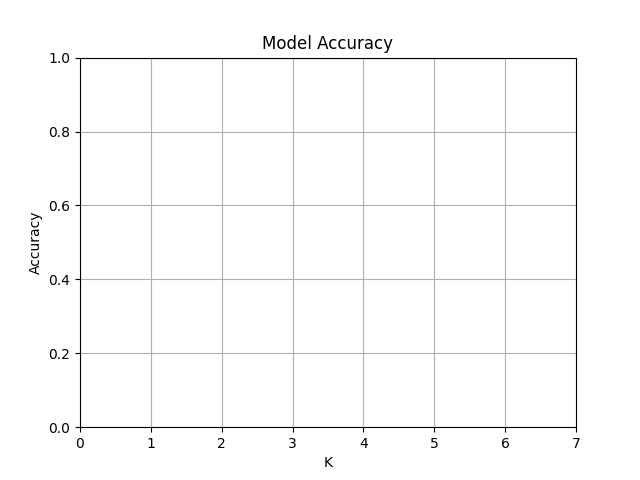
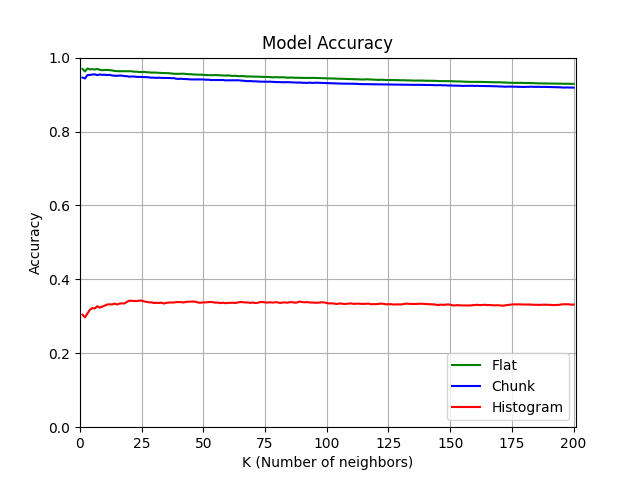
ham in graph va bang do chinh xac cua ca 3 cachognition

diff --git a/predict.py b/predict.py
@@ -3,6 +3,7 @@ import os
 import numpy as np
 import pickle
 import matplotlib.pyplot as plt
+import csv
 import process
 
 K_MAX = 1000
@@ -64,8 +65,8 @@ def predict_with_methods(image, k, extract_methods, *methods_data):
     return results
 
 def graph_accuracy_in_range(test_features_labels, nearest_neighbors, test_range):
-    accuracies = []
     true_labels = np.array([label for ignore, label in test_features_labels])
+    accuracies = []
     for k in test_range:
         predictions = []
         for i in range(len(nearest_neighbors)):
@@ -76,17 +77,75 @@ def graph_accuracy_in_range(test_features_labels, nearest_neighbors, test_range)
         accuracy = correct_predictions / len(test_features_labels)
         accuracies.append(accuracy)
 
-    plt.plot(test_range, accuracies, color="green")
+    # plt.plot(test_range, accuracies, color="green")
+    # plt.xlim(min(test_range)-1, max(test_range)+1)
+    # plt.ylim(0, 1)
+
+    # plt.title("Model Accuracy")
+    # plt.ylabel("Accuracy")
+    # plt.xlabel("K (Number of neighbors)")
+    # plt.grid()
+
+    # plt.savefig("Accuracy.png")
+    # plt.show()
+
+def graph_accuracy_with_methods(test_features_labels, nearest_neighbors, test_range):
+    true_labels = np.array([label for ignore, label in test_features_labels])
+    accuracies_all = []
+    for method in range(0, 3):
+        accuracies = []
+        for k in test_range:
+            predictions = []
+            for i in range(len(nearest_neighbors[method])):
+                predict = predict_on_test_data(nearest_neighbors[method][i], k)
+                predictions.append(predict)
+            predictions = np.array(predictions)
+            correct_predictions = np.sum(predictions == true_labels)
+            accuracy = correct_predictions / len(test_features_labels)
+            accuracies.append(accuracy)
+        accuracies_all.append([method, accuracies])
+    
+    
+    for method, accuracies in accuracies_all:
+        if method == 0:
+            plt.plot(test_range, accuracies, label="Flat", color="green")
+        elif method == 1:
+            plt.plot(test_range, accuracies, label="Chunk", color="blue")
+        elif method == 2:
+            plt.plot(test_range, accuracies, label="Histogram", color="red")
+        
     plt.xlim(min(test_range)-1, max(test_range)+1)
     plt.ylim(0, 1)
-
     plt.title("Model Accuracy")
     plt.ylabel("Accuracy")
     plt.xlabel("K (Number of neighbors)")
     plt.grid()
-
-    plt.savefig("Accuracy.png")
+    plt.legend(loc='lower right')
+    plt.savefig("accuracy.png")
     plt.show()
+
+def table_accuracy_with_methods(test_features_labels, nearest_neighbors, test_range):
+    true_labels = np.array([label for ignore, label in test_features_labels])
+    res = []
+    for k in test_range:
+        for method in range(0, 3):
+            predictions = []
+            for i in range(len(nearest_neighbors[method])):
+                predict = predict_on_test_data(nearest_neighbors[method][i], k)
+                predictions.append(predict)
+            predictions = np.array(predictions)
+            correct_predictions = np.sum(predictions == true_labels)
+            accuracy = correct_predictions / len(test_features_labels)
+            res.append([k, method, accuracy])    
+
+    with open('accuracy_table.csv', mode='w', newline='', encoding='utf-8') as file:
+        writer = csv.writer(file)
+        writer.writerow(["k", "flat", "chunk", "histogram"])  # Tiêu đề cột
+        for k in test_range:
+            flat_accuracy = next((x[2] for x in res if x[0] == k and x[1] == 0), None)
+            chunk_accuracy = next((x[2] for x in res if x[0] == k and x[1] == 1), None)
+            histogram_accuracy = next((x[2] for x in res if x[0] == k and x[1] == 2), None)
+            writer.writerow([k, flat_accuracy, chunk_accuracy, histogram_accuracy])
 
 
 def probability_percentage_of_each_digit(extract_methods, test_feature_label, nearest_neighbors, index, k):

diff --git a/main.py b/main.py
@@ -37,7 +37,7 @@ def main():
     test_range = range(1, 1001)
     predict.graph_accuracy_in_range(combined_test_flat, flat_data, test_range)
     '''
-
+    
     extract_methods = {
         0: "FLAT",
         1: "CHUNK",
